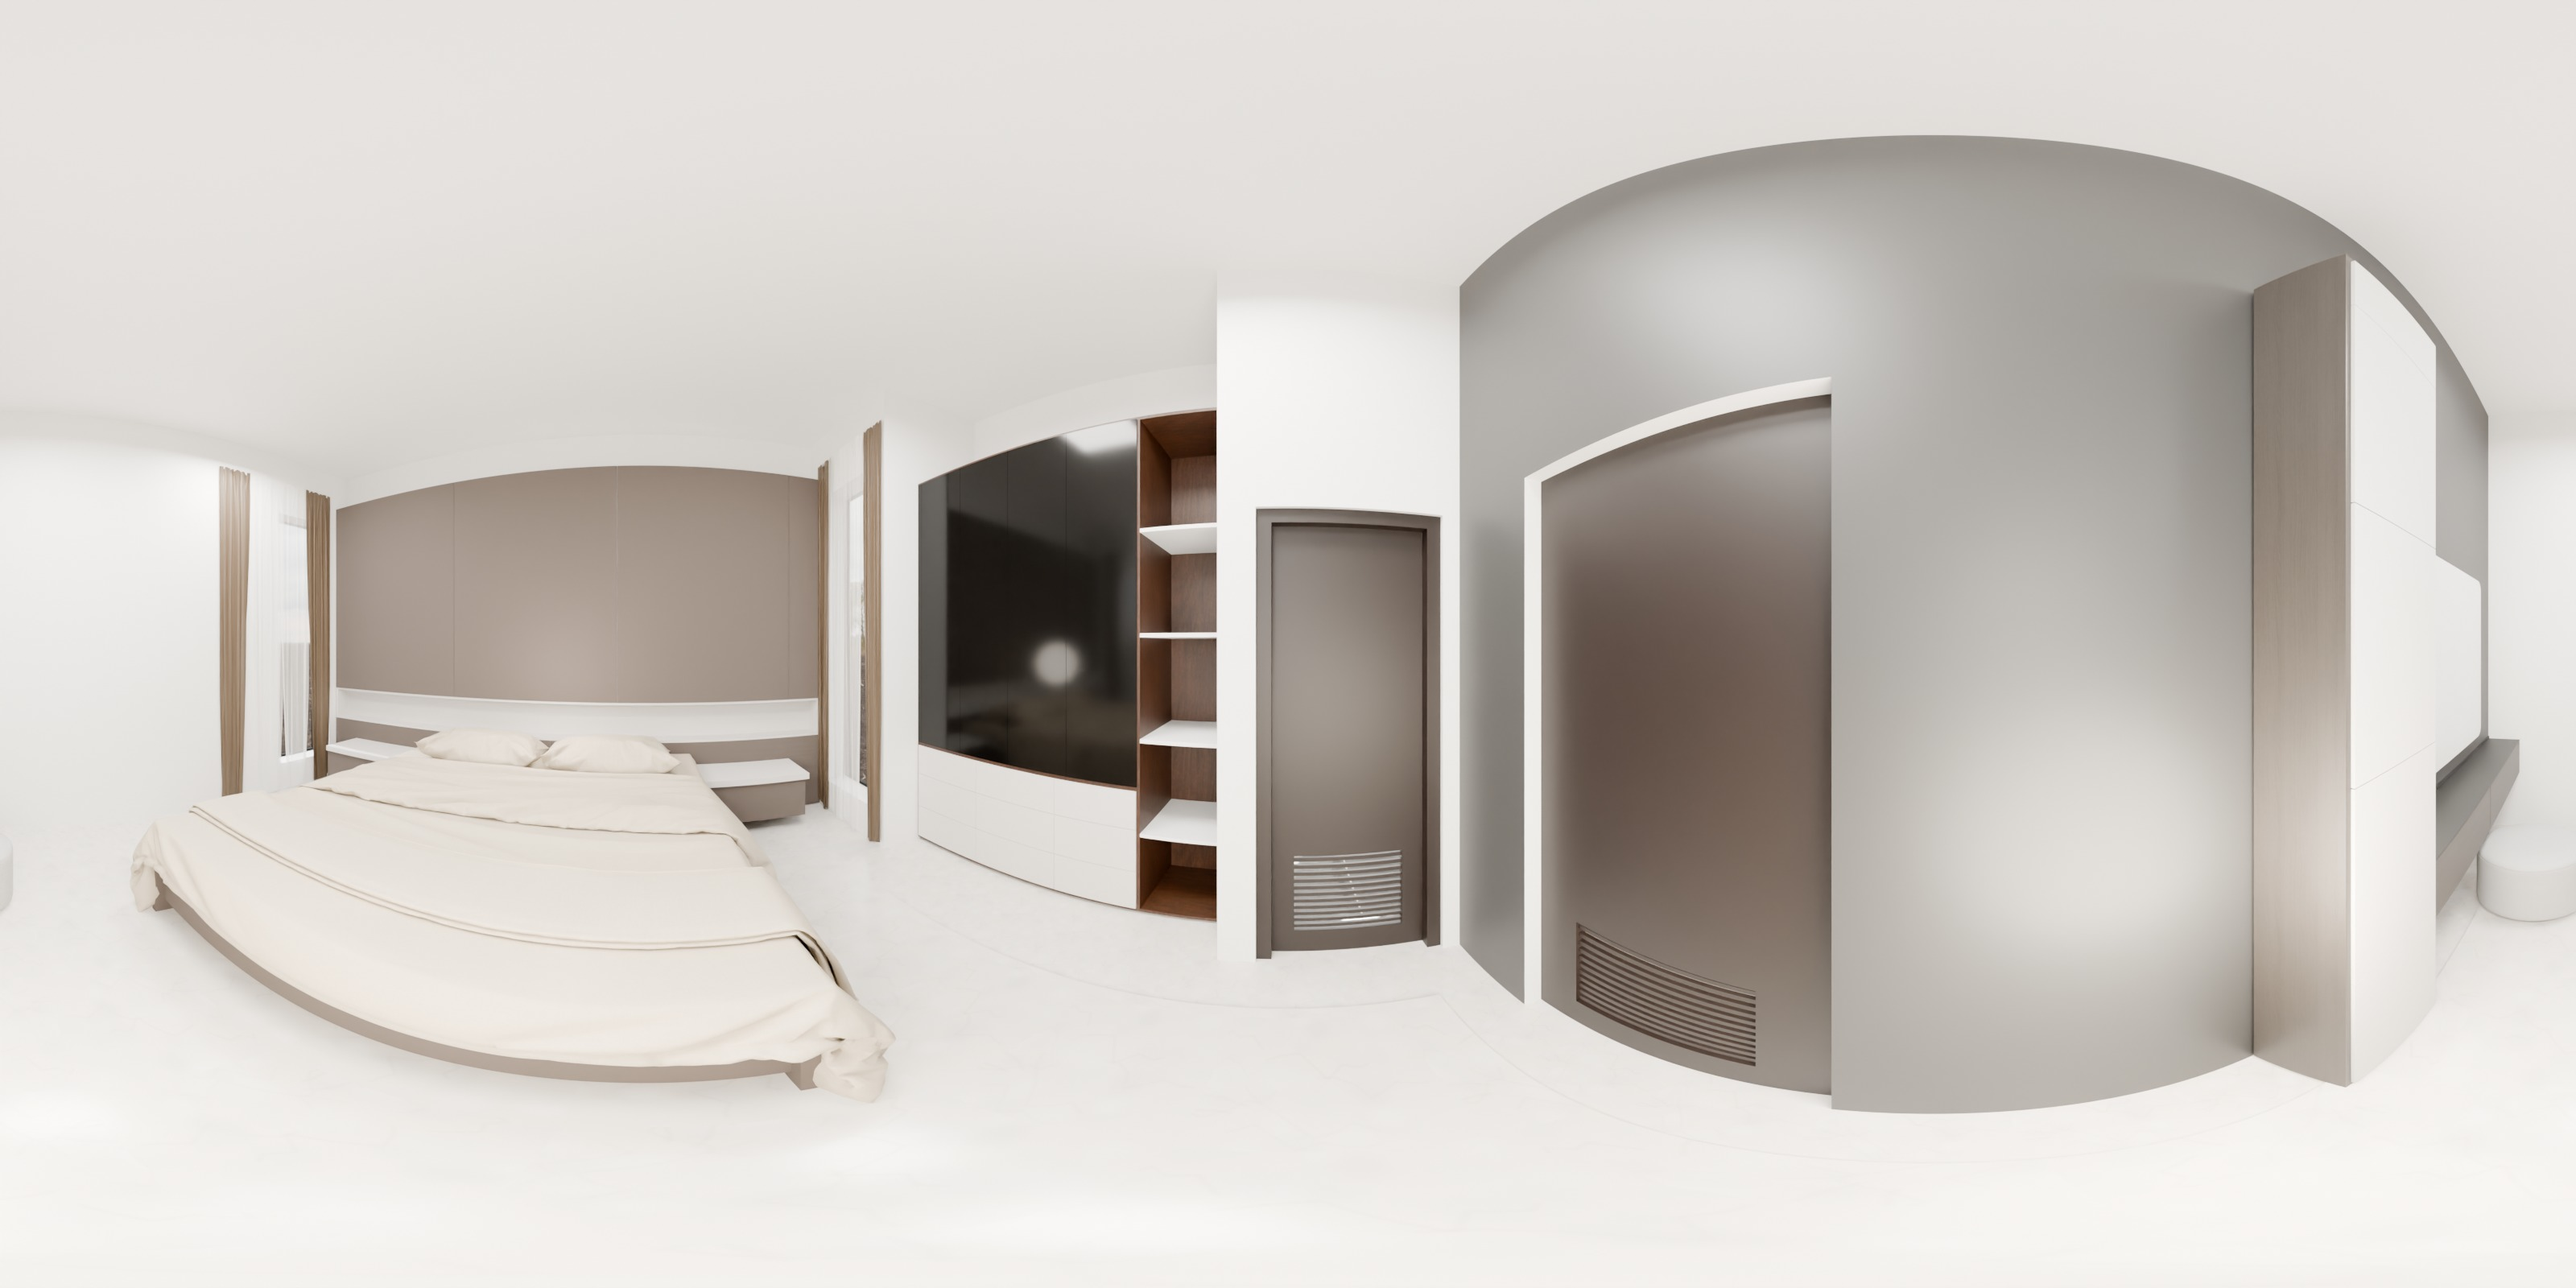
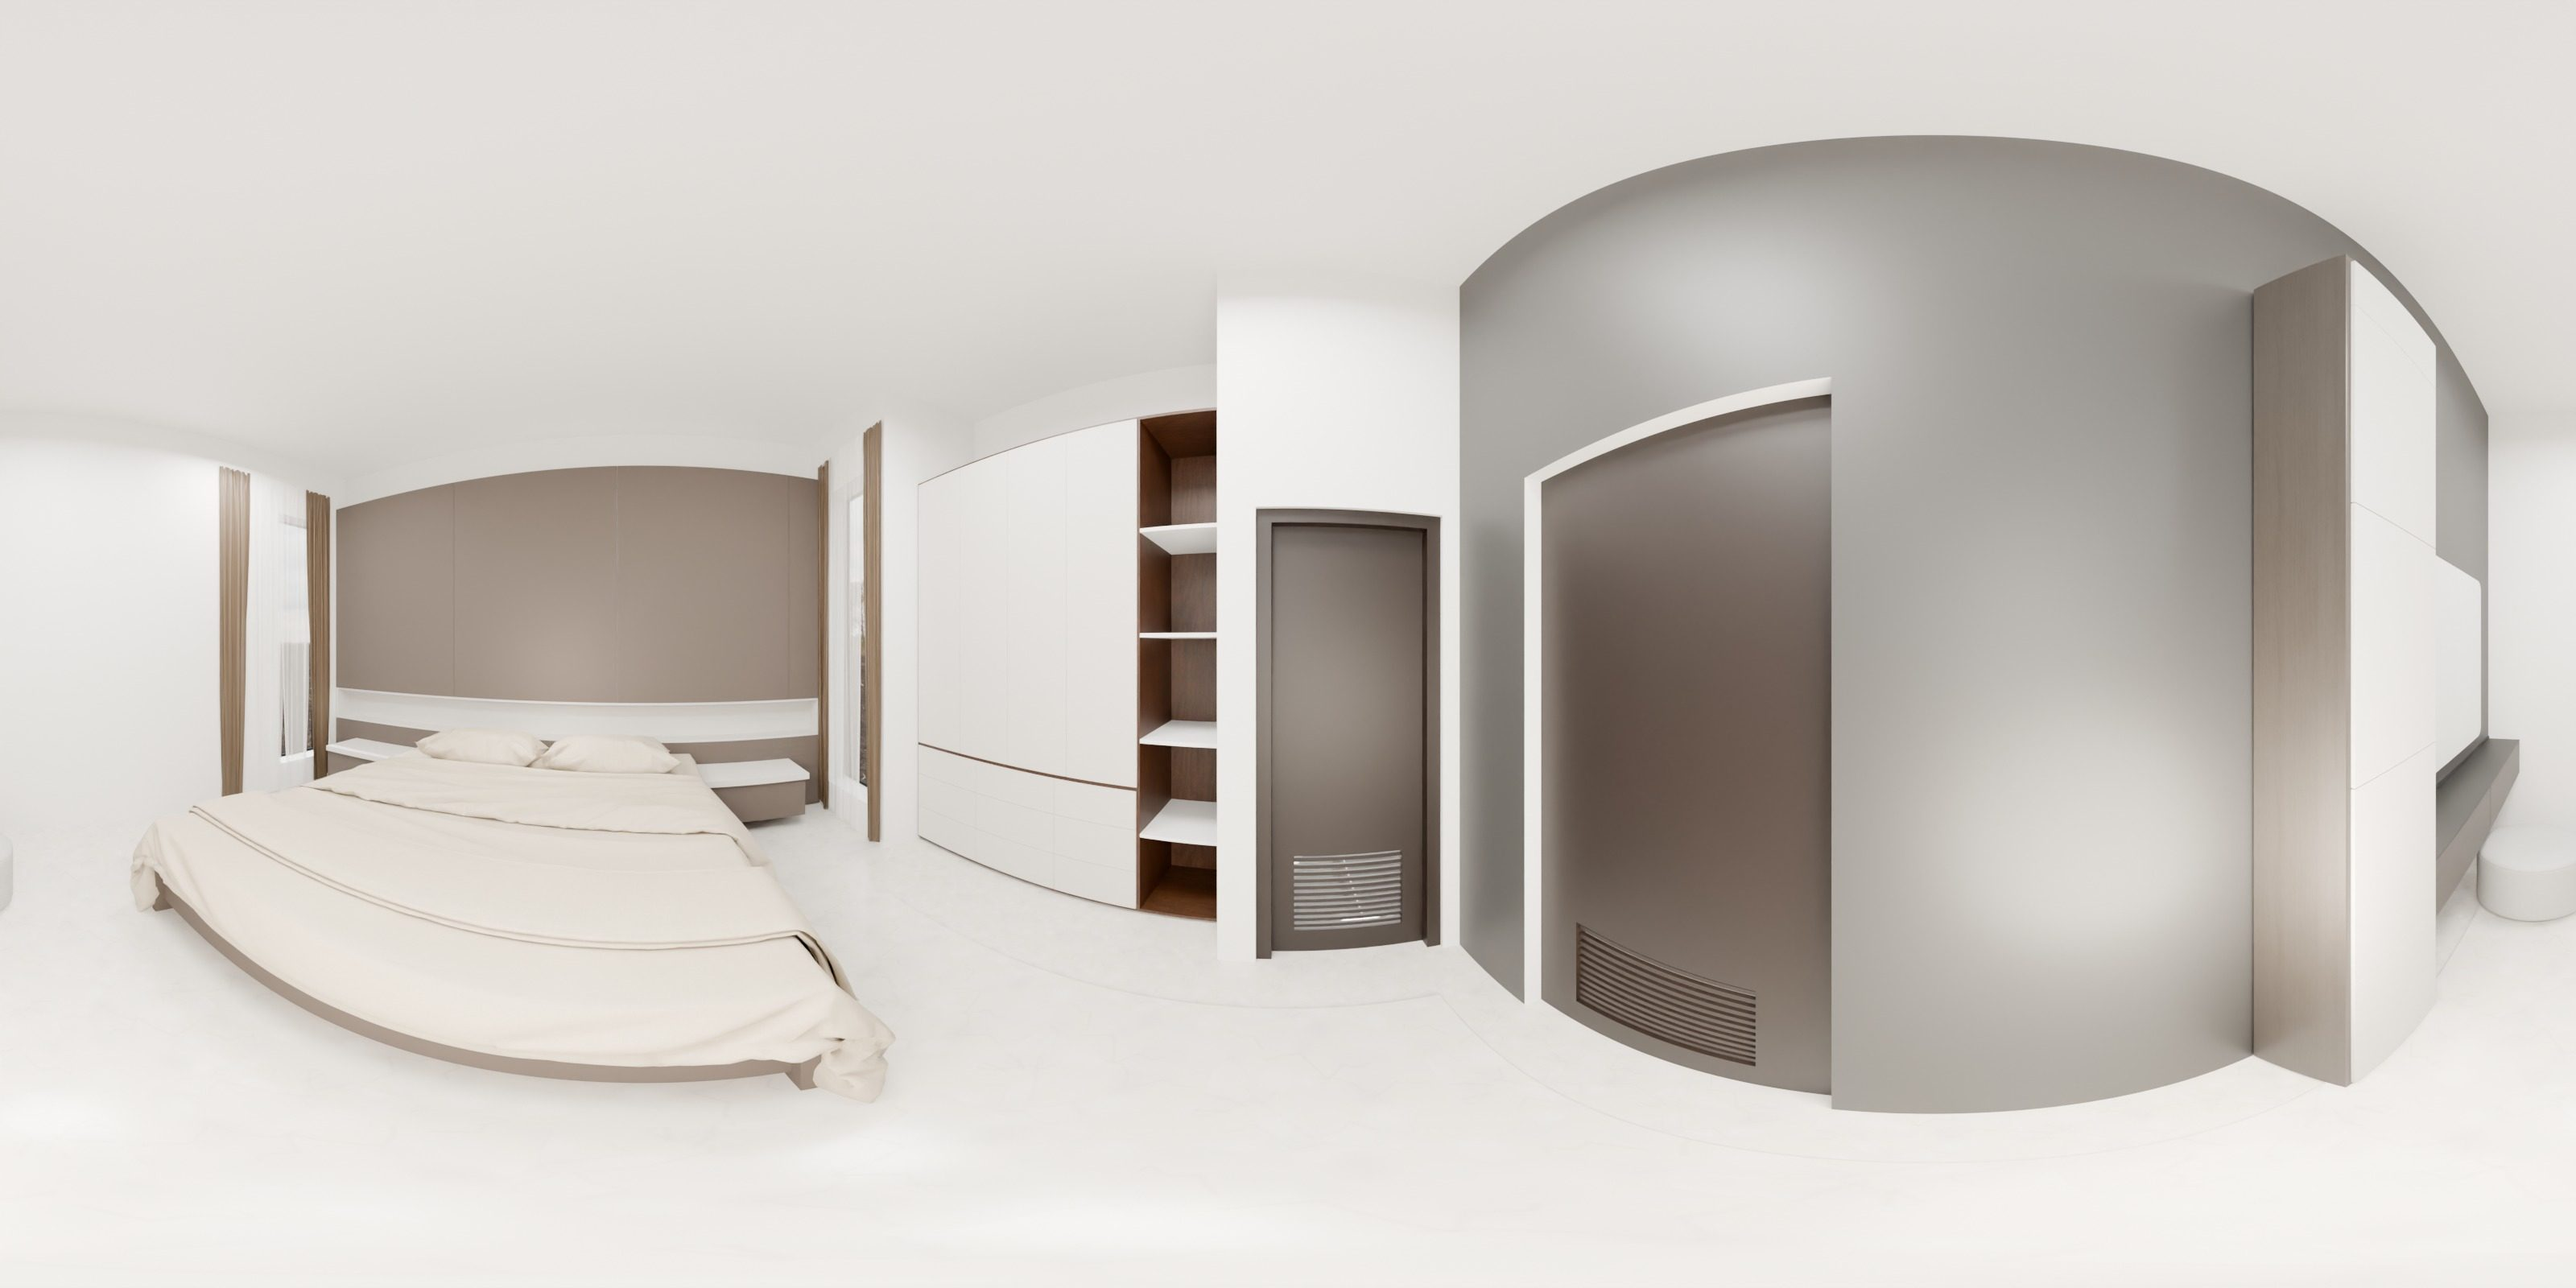
Dining EV 0.0 per Philip pick (mean 152); Bedroom2 wardrobe reverted to white; MB mirror panel reverted to mirror; pano/depth compression + depth-after-pano + neighbor prefetch (tour.js v20260916h)

Changed region(s): [[0.3438, 0.3438, 0.4688, 0.625]]

diff --git a/tour-engine/tour.js b/tour-engine/tour.js
@@ -144,7 +144,6 @@ async function switchTo(id, keepView = true) {
   ]);
   let pano = null, depth = null;
   try { pano = await loadWithTimeout(room.pano); } catch (e) { console.error('pano load failed', room.pano, e); pano = null; }
-  if (room.depth) { try { depth = await loadWithTimeout(room.depth); } catch (e) { console.error('depth load failed', room.depth, e); depth = null; } }
   if (!pano) { pendingId = null; console.error('switchTo aborted: no pano for', id); return; }
   if (myToken !== switchToken) return;   // a newer tap superseded this one
   // Fold any half-finished transition into A, then arm a FRESH transition with the new pano in B.
@@ -152,7 +151,8 @@ async function switchTo(id, keepView = true) {
   uniforms.uDepthA.value = uniforms.uDepthB.value;
   uniforms.uPanoB.value = pano;
   uniforms.uPanoB.value.colorSpace = THREE.SRGBColorSpace;
-  uniforms.uDepthB.value = depth || farPixel;
+  // Depth streams in AFTER the pano is on screen — room appears instantly, parallax lands a beat later.
+  uniforms.uDepthB.value = depthCache[id] || farPixel;
   uniforms.uDepthB.value.minFilter = uniforms.uDepthB.value.magFilter = THREE.LinearFilter;
   uniforms.uMix.value = 0;
   mixStart = performance.now();
@@ -161,6 +161,26 @@ async function switchTo(id, keepView = true) {
   current = room; pendingId = null;
   buildHotspots(room);
   if (window.__onRoomChanged) window.__onRoomChanged(room);
+  // non-blocking depth load + cache, then prefetch neighbours so next switch is instant
+  loadWithTimeout(room.depth, 15000).then(d => {
+    if (d) { d.minFilter = d.magFilter = THREE.LinearFilter; depthCache[id] = d;
+      if (current === room) uniforms.uDepthB.value = d; }
+  }).catch(()=>{});
+  prefetchNeighbors(room);
+}
+const depthCache = {}, panoCache = new Set();
+async function prefetchNeighbors(room) {
+  (room.hotspots || []).forEach(h => {
+    if (!h.to) return;
+    const nb = byId[h.to]; if (!nb) return;
+    if (!panoCache.has(nb.pano)) {
+      panoCache.add(nb.pano);
+      loader.loadAsync(nb.pano).catch(()=>{});
+    }
+    if (nb.depth && !depthCache[nb.id]) {
+      loader.loadAsync(nb.depth).then(d => { d.minFilter = d.magFilter = THREE.LinearFilter; depthCache[nb.id] = d; }).catch(()=>{});
+    }
+  });
 }
 function finishTransition() {
   uniforms.uPanoA.value = uniforms.uPanoB.value;

diff --git a/tour-nav/tour.html b/tour-nav/tour.html
@@ -52,7 +52,7 @@
 <script type="importmap">
 {"imports":{"three":"https://unpkg.com/three@0.160.0/build/three.module.js"}}
 </script>
-<script type="module" src="../tour-engine/tour.js?v=20260916g"></script>
+<script type="module" src="../tour-engine/tour.js?v=20260916h"></script>
 <script>
   // room name in the button + keyboard room cycling (kept outside the engine module)
   let names = {}, order = [];
